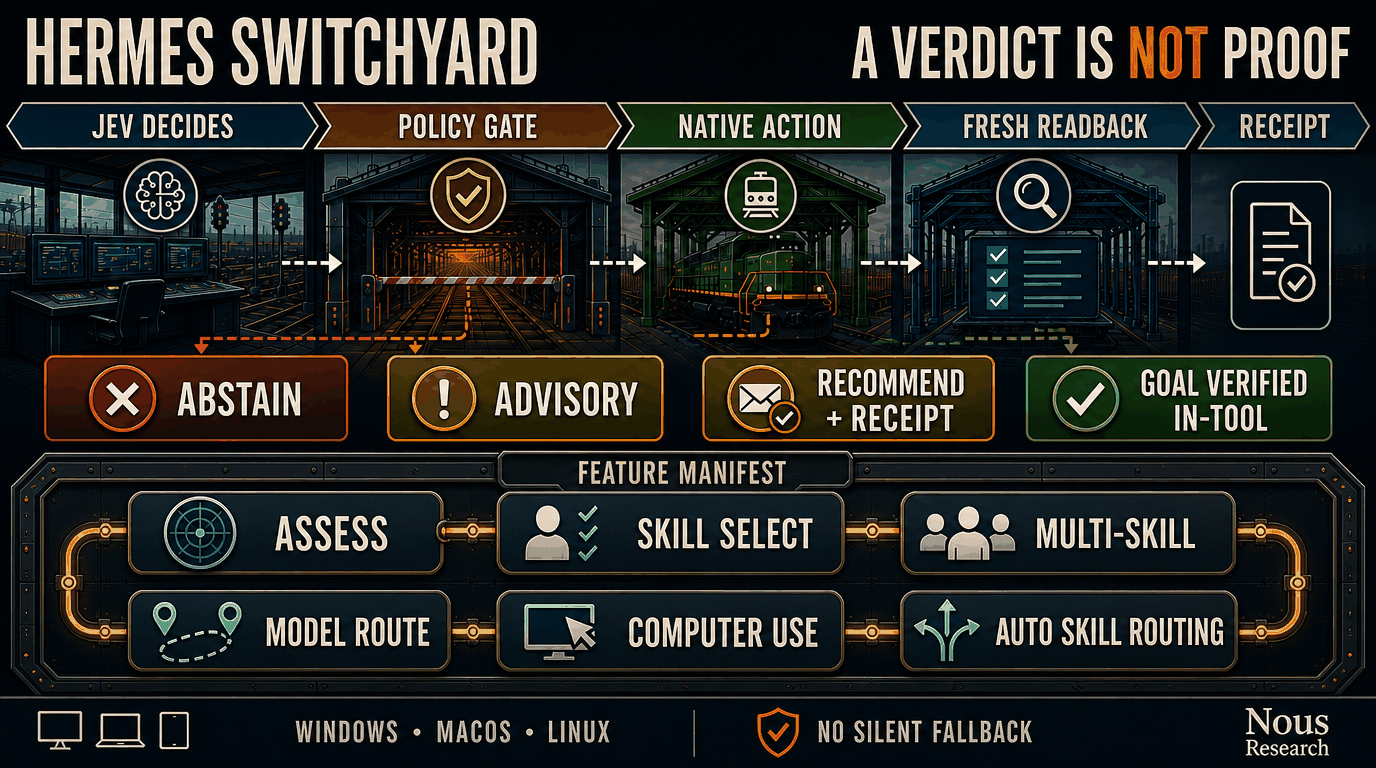
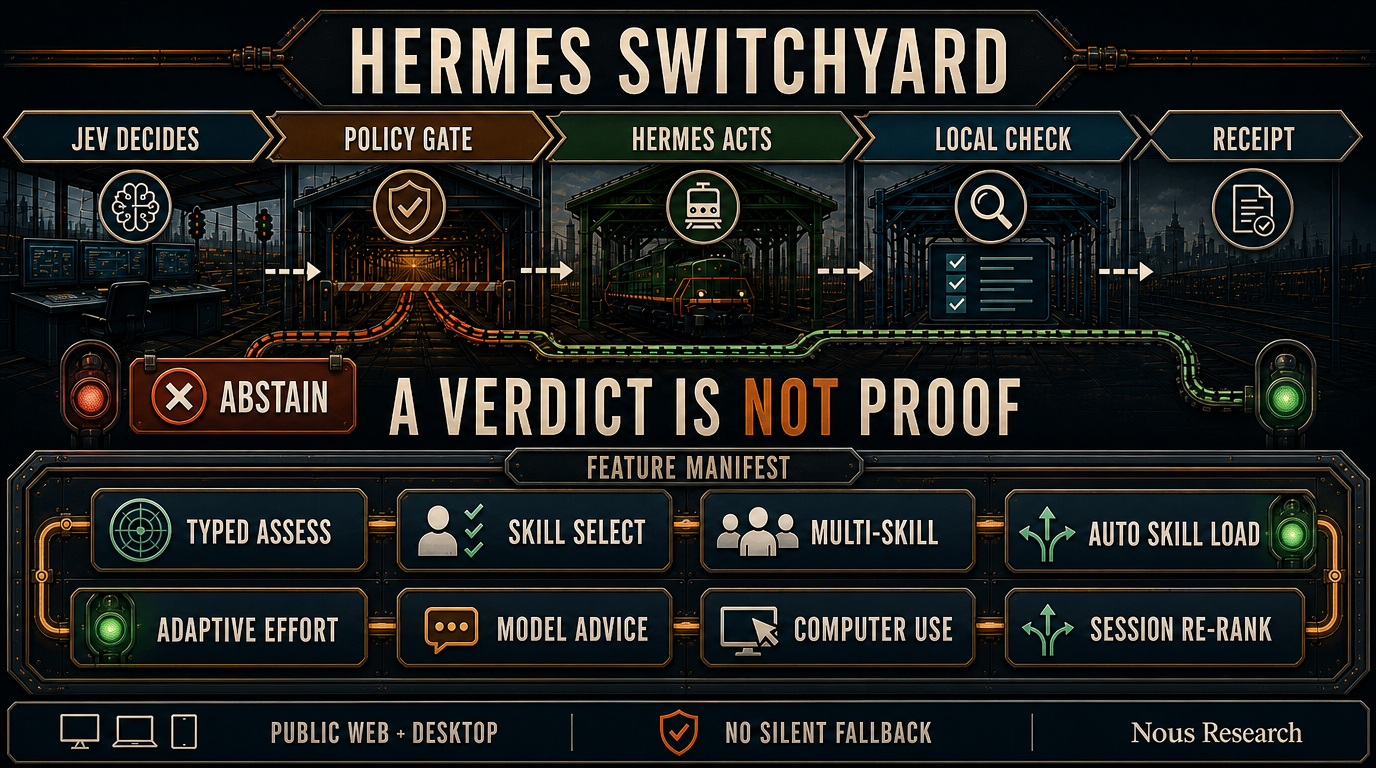
docs: refresh Switchyard README overview graphic

diff --git a/README.md b/README.md
@@ -2,7 +2,7 @@
 
 Hermes Switchyard helps [Hermes Agent](https://github.com/NousResearch/hermes-agent) choose a relevant skill, adjust reasoning effort, and work through browser or desktop tasks. It uses [Jev](https://typesafe.ai/blog/introducing-system-one-models-and-jev) for bounded decisions. Hermes remains in charge of actions and the final result.
 
-![A map of Hermes Switchyard's skill, model, and computer-use features](docs/assets/hermes-switchyard-overview.png)
+![Rail-yard map of Hermes Switchyard: Jev decisions pass policy before Hermes acts; typed assessment, skill selection and loading, adaptive effort, model advice, computer use, session re-ranking, and receipts are distinct capabilities](docs/assets/hermes-switchyard-overview.png)
 
 Version: 0.5.3
 
